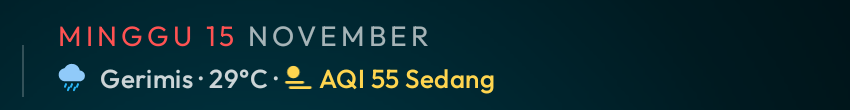
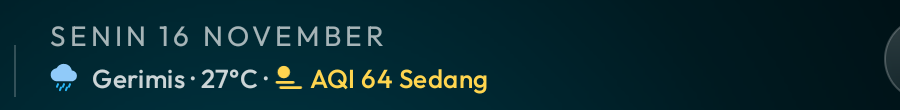
CleanYourTV Sola: launcher Home dengan jadwal sholat, cuaca, dan grafik sistem
Fork dari CleanYourTV (MIT, Gathin23). Launcher di sini memakai versi widget,
yaitu versi sebelum upstream menulis ulang launcher-nya menjadi 3.5, jadi isi
examples/, docs/, dan themes/ mengikuti salinan saat fork dibuat.

Perubahan dibanding upstream:
- Kartu jadwal sholat dan jadwal bola permanen bergaya kaca.
- Cuaca hari ini + kualitas udara (AQI) di bawah baris tanggal. Saat jam
  berjalan berisi hujan (minimal 0,1 mm), teks dan ikon mengikuti data per jam
  ("Gerimis", "Hujan Ringan", "Hujan Lokal"), bukan lagi "Berawan".
- Grafik CPU / RAM / Disk tiga batang, sejajar tepi kartu jadwal sholat.
- Tanggal Minggu: hanya angka tanggal berwarna merah.
- Timer tidur di samping Setelan, tombol atas ikon saja.
- Nama Wi-Fi lengkap di pil atas.
- pasang.bat + install-adb.ps1: pasang, jadikan Home, reboot, lalu memeriksa
  Home, versi, dan crash; menulis screenshot hasilnya.
- Panduan bahasa Indonesia (PASANG.md, BACA-DULU.txt) dan screenshots.

Build 3.34 (versionCode 44) memperbaiki baris cuaca yang tidak cocok saat
gerimis. Diuji di AX810 (Android 11): tampil "Gerimis - 27 C - AQI 64 Sedang",
sama dengan data Open-Meteo per jam untuk lokasi yang dipilih.

APK tidak disimpan di repo; unduh dari Releases atau build sendiri.

Changed region(s): [[0.0, 0.4091, 0.5812, 0.8727], [0.0306, 0.2182, 0.52, 0.4364], [0.9788, 0.2455, 1.0, 0.8182]]

diff --git a/launcher/app/src/main/java/com/gathin/tvhome/WeatherSource.java b/launcher/app/src/main/java/com/gathin/tvhome/WeatherSource.java
@@ -12,6 +12,7 @@ import android.text.style.ImageSpan;
 import android.view.View;
 import android.widget.TextView;
 
+import org.json.JSONArray;
 import org.json.JSONObject;
 
 import java.net.URLEncoder;
@@ -162,15 +163,50 @@ final class WeatherSource {
                 + String.format(Locale.US, "%.4f", lat)
                 + "&longitude=" + String.format(Locale.US, "%.4f", lon)
                 + "&current=temperature_2m,weather_code"
+                + "&hourly=weather_code,precipitation"
                 + "&timezone=" + URLEncoder.encode("Asia/Jakarta", "UTF-8")
                 + "&forecast_days=1";
         JSONObject reply = new JSONObject(HomeWidgets.get(url));
         JSONObject current = reply.optJSONObject("current");
         if (current == null || !current.has("temperature_2m")) throw new Exception("no current weather");
         int code = current.optInt("weather_code", -1);
+        // The "current" block smooths a drizzle into its cloud: 18:30 with 0.3 mm in the 18:00 row
+        // comes back as code 3 (overcast). When the hour that holds now says rain, say rain.
+        int hourly = rainingThisHour(reply);
+        if (hourly >= 0 && isRain(hourly) && !isRain(code)) code = hourly;
         String text = describe(code)
                 + " \u00b7 " + Math.round(current.getDouble("temperature_2m")) + "\u00b0C";
         return new Reading(text, code, fetchAqi(lat, lon));
+    }
+
+    /**
+     * The hourly code for the hour that holds now, when that hour carries at least 0.1 mm of rain; -1
+     * when the hour is dry or the reply has no hourly block. Times are in the requested timezone:
+     * hourly "2026-11-16T18:00", current "2026-11-16T18:30".
+     */
+    private static int rainingThisHour(JSONObject reply) {
+        JSONObject hourly = reply.optJSONObject("hourly");
+        JSONObject current = reply.optJSONObject("current");
+        if (hourly == null || current == null) return -1;
+        JSONArray times = hourly.optJSONArray("time");
+        JSONArray codes = hourly.optJSONArray("weather_code");
+        JSONArray rain = hourly.optJSONArray("precipitation");
+        String now = current.optString("time", "");
+        if (times == null || codes == null || rain == null || now.length() < 13) return -1;
+        String hour = now.substring(0, 13);
+        int n = Math.min(times.length(), Math.min(codes.length(), rain.length()));
+        for (int i = 0; i < n; i++) {
+            String at = times.optString(i, "");
+            if (!at.startsWith(hour)) continue;
+            if (rain.optDouble(i, 0) < 0.1) return -1;
+            return codes.optInt(i, -1);
+        }
+        return -1;
+    }
+
+    /** WMO codes that mean water is falling: drizzle, rain, freezing rain and thunderstorms. */
+    private static boolean isRain(int code) {
+        return (code >= 51 && code <= 67) || (code >= 80 && code <= 82) || code >= 95;
     }
 
     /** The air quality is a bonus: when it cannot be read, the line keeps the weather without it. */

diff --git a/PASANG.md b/PASANG.md
@@ -9,7 +9,6 @@ Launcher Android TV / Google TV bergaya Apple TV, berbasis [CleanYourTV](https:/
 - Kartu jadwal sholat dan jadwal bola dibuat **lebih besar**; kartu kalender disembunyikan secara bawaan (bisa dimunculkan lagi di Setelan)
 - Kartu bergaya **kaca bening (tembus pandang)**: wallpaper tetap terlihat di balik latar buram, dengan kilau tipis di atas, tepi terang, dan teks putih tebal yang mudah dibaca dari sofa
 - **Cuaca hari ini** tepat di bawah tanggal, dengan ikon yang berubah mengikuti kondisi (mis. `Gerimis · 28°C · 26°–29°`), mengikuti lokasi jadwal sholat
-- **Baris statistik** kecil di bawah jam: CPU, RAM dan penyimpanan yang sedang dipakai (build 3.27-3.33), dengan ikon dan teks yang disejajarkan
 
 Butuh TV Android 8 ke atas, dan sebuah HP Android (pakai Termux) atau komputer untuk menjalankan adb. Cukup sekali saat memasang.
 
@@ -38,7 +37,7 @@ Izinkan akses penyimpanan saat diminta. File yang kamu unduh ada di `~/storage/d
 
 **Pakai komputer.** Pasang [Android platform-tools](https://developer.android.com/tools/releases/platform-tools), lalu buka Terminal / Command Prompt di folder tempat APK diunduh.
 
-Unduh/salin `CleanYourTV-Sola-3.33-stats-sejajar.apk` (ada di folder yang sama dengan panduan ini) ke HP atau komputer.
+Unduh/salin `CleanYourTV-Sola-3.34-hujan.apk` (ada di folder yang sama dengan panduan ini) ke HP atau komputer.
 
 ## 3. Sambungkan dan cari launcher bawaan
 
@@ -76,7 +75,7 @@ Di Termux (ganti path-nya kalau pakai komputer), jalankan berurutan:
 ```
 adb shell pm enable <launcher-bawaan>
 adb uninstall com.gathin.tvhome
-adb install ~/storage/downloads/CleanYourTV-Sola-3.33-stats-sejajar.apk
+adb install ~/storage/downloads/CleanYourTV-Sola-3.34-hujan.apk
 adb shell cmd package set-home-activity --user 0 com.gathin.tvhome/.MainActivity
 adb shell pm disable-user --user 0 <launcher-bawaan>
 ```
@@ -92,7 +91,7 @@ Tekan tombol **Home** di remote untuk mengecek, lalu lanjut ke langkah 5.
 Kalau TV-mu sudah memakai build khusus ini (kunci debug yang sama) dan cuma ingin memasang versi baru, semua pengaturan tetap aman:
 
 ```
-adb install -r ~/storage/downloads/CleanYourTV-Sola-3.33-stats-sejajar.apk
+adb install -r ~/storage/downloads/CleanYourTV-Sola-3.34-hujan.apk
 ```
 
 Selesai, langkah 5 dan 6 tidak perlu diulang. Kalau gagal dengan pesan `INSTALL_FAILED_UPDATE_INCOMPATIBLE` atau `signatures do not match`, berarti yang terpasang adalah CleanYourTV versi resmi (kunci berbeda); pakai **A. Pasang baru**.
@@ -112,20 +111,16 @@ Yang terakhir untuk **timer tidur**: dengan izin ini launcher bisa menyalakan se
 
 ## 6. Suara adzan (opsional)
 
-Paket ini sudah membawa `adzan.mp3` (3 menit 20 detik). Cara termudah: klik 2x **`pasang-adzan.bat`**, masukkan IP TV. Skripnya mengirim file ke folder launcher lewat content provider bawaan launcher, jadi **tidak perlu root**, lalu memeriksa checksum-nya.
-
-Kalau mau suara lain, timpa `adzan.mp3` di folder ini lalu jalankan `pasang-adzan.bat` lagi. Atau kerjakan manual:
+Launcher ini **tidak menyertakan** suara adzan. Siapkan file MP3 adzan pilihanmu sendiri, beri nama `adzan.mp3`, lalu:
 
 ```
-adb push adzan.mp3 /sdcard/Download/adzan.mp3
-adb shell 'content write --uri content://com.gathin.tvhome.theme/adzan.mp3 < /sdcard/Download/adzan.mp3'
+adb push ~/storage/downloads/adzan.mp3 /data/local/tmp/adzan.mp3
+adb shell 'content write --uri content://com.gathin.tvhome.theme/adzan.mp3 < /data/local/tmp/adzan.mp3; rm /data/local/tmp/adzan.mp3'
 ```
 
 Mau adzan khusus Subuh? Ulangi dengan nama `adzan_subuh.mp3`. Kalau tidak ada, Subuh memakai `adzan.mp3`.
 
-Terakhir, di TV: buka **Setelan → Pengingat adzan**, tekan baris itu sampai tertulis **Banner + suara adzan**, lalu pastikan di bawahnya muncul **File adzan.mp3 ditemukan.** Tekan **Tes pengingat sekarang** untuk mencoba; tekan **Home** untuk berhenti.
-
-Supaya ringan, kecilkan dulu file-nya (misalnya jadi mono 48 kbps) — file bawaan paket ini sekitar 1 MB.
+Supaya ringan, kecilkan dulu file-nya (misalnya jadi mono 48 kbps, sekitar 1,5 MB untuk adzan 4 menit).
 
 ## 7. Atur di TV
 
